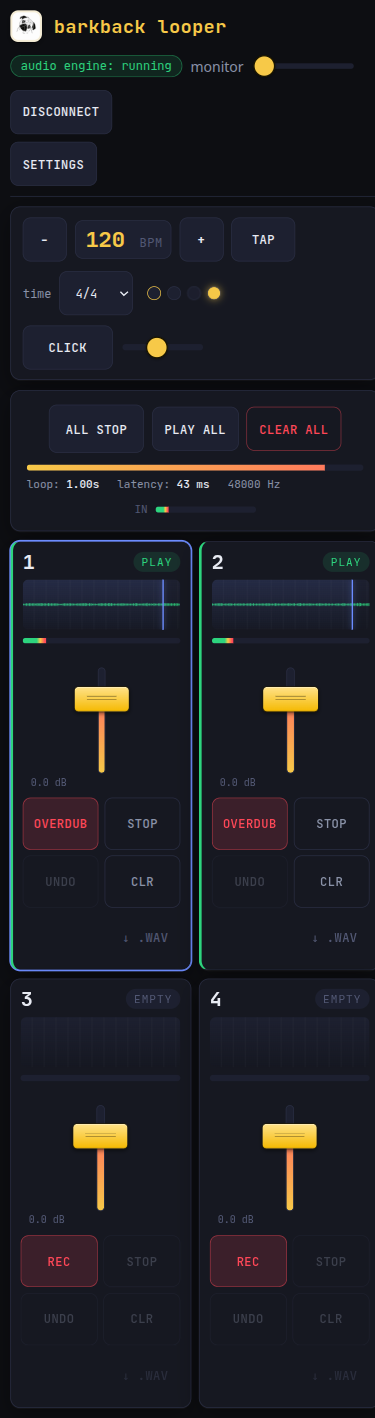
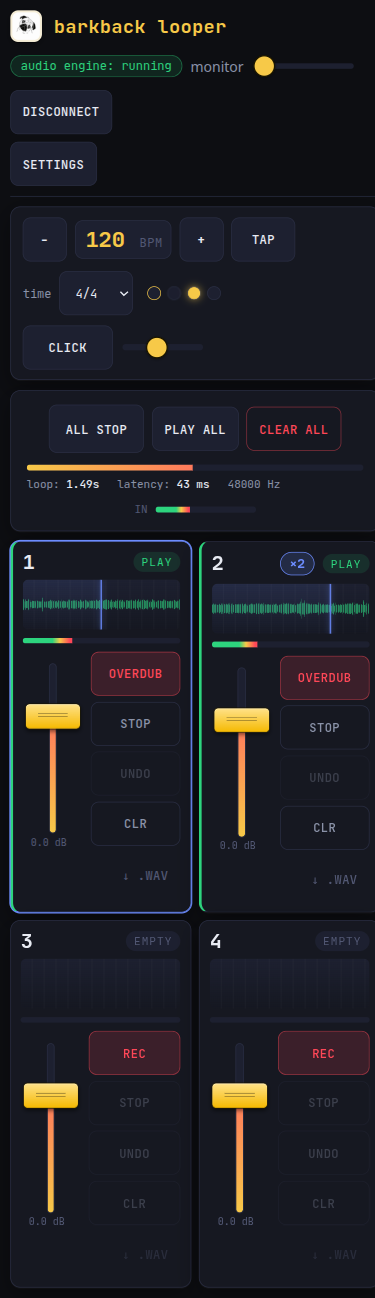
Track strip: fader on left, action buttons stacked on the right
The four track-action buttons (REC, STOP, UNDO, CLR) used to live in
a 2x2 grid below the fader. Now they're a single vertical column to
the right of the fader, with the fader getting a narrow fixed-width
column on the left. Less vertical real estate per strip and the eye
moves naturally from level (left) to transport (right).

Layout: grid 72px / 1fr on desktop, 60px / 1fr on portrait phones.
Fader stretches to fill the row height so the four buttons and the
fader column visually align.

Screenshots updated.

diff --git a/src/components/TrackStrip.tsx b/src/components/TrackStrip.tsx
@@ -130,45 +130,46 @@ export function TrackStrip({ index }: Props) {
         <div className="meter-fill" style={{ width: `${peakToPct(peak)}%` }} />
       </div>
 
-      <Fader
-        value={track.gain}
-        max={1.5}
-        unity={1.0}
-        onChange={(v) => setTrackGain(index, v)}
-        label={`track ${index + 1} volume`}
-      />
-
-      <div className="track-buttons">
-        <button
-          className="btn btn-rec"
-          onClick={(e) => { e.stopPropagation(); trackAction(index, 'rec'); }}
-        >
-          {recordLabel(track.mode, recAction)}
-        </button>
-        <button
-          className="btn btn-stop"
-          disabled={track.mode === 'empty'}
-          onClick={(e) => { e.stopPropagation(); trackAction(index, 'stop'); }}
-        >
-          STOP
-        </button>
-        <button
-          className="btn btn-undo"
-          disabled={!track.canUndo}
-          onClick={(e) => { e.stopPropagation(); undoTrack(index); }}
-        >
-          UNDO
-        </button>
-        <button
-          className="btn btn-clear"
-          disabled={!track.hasAudio}
-          onClick={(e) => {
-            e.stopPropagation();
-            if (confirm(`Clear track ${index + 1}?`)) clearTrack(index);
-          }}
-        >
-          CLR
-        </button>
+      <div className="track-controls">
+        <Fader
+          value={track.gain}
+          max={1.5}
+          unity={1.0}
+          onChange={(v) => setTrackGain(index, v)}
+          label={`track ${index + 1} volume`}
+        />
+        <div className="track-buttons">
+          <button
+            className="btn btn-rec"
+            onClick={(e) => { e.stopPropagation(); trackAction(index, 'rec'); }}
+          >
+            {recordLabel(track.mode, recAction)}
+          </button>
+          <button
+            className="btn btn-stop"
+            disabled={track.mode === 'empty'}
+            onClick={(e) => { e.stopPropagation(); trackAction(index, 'stop'); }}
+          >
+            STOP
+          </button>
+          <button
+            className="btn btn-undo"
+            disabled={!track.canUndo}
+            onClick={(e) => { e.stopPropagation(); undoTrack(index); }}
+          >
+            UNDO
+          </button>
+          <button
+            className="btn btn-clear"
+            disabled={!track.hasAudio}
+            onClick={(e) => {
+              e.stopPropagation();
+              if (confirm(`Clear track ${index + 1}?`)) clearTrack(index);
+            }}
+          >
+            CLR
+          </button>
+        </div>
       </div>
 
       <button

diff --git a/src/App.css b/src/App.css
@@ -551,13 +551,26 @@ html, body, #root {
   pointer-events: none;
 }
 
+.track-controls {
+  display: grid;
+  grid-template-columns: 72px 1fr;
+  gap: 12px;
+  align-items: stretch;
+}
+
+.track-controls .fader {
+  height: 100%;
+  min-height: 168px;
+  margin: 0;
+}
+
 .track-buttons {
   display: grid;
-  grid-template-columns: 1fr 1fr;
+  grid-template-rows: repeat(4, 1fr);
   gap: 6px;
 }
 
-.track-buttons .btn { padding: 14px 6px; font-size: 12px; min-height: 52px; }
+.track-buttons .btn { padding: 8px 6px; font-size: 12px; min-height: 44px; }
 
 .track-export {
   align-self: flex-end;
@@ -1011,7 +1024,8 @@ input[type=range]::-moz-range-thumb {
     padding: 10px;
     gap: 8px;
   }
-  .fader { height: 130px; }
+  .track-controls { grid-template-columns: 60px 1fr; gap: 8px; }
+  .track-controls .fader { min-height: 140px; }
   .waveform { height: 50px; }
   .track-num { font-size: 20px; }
 